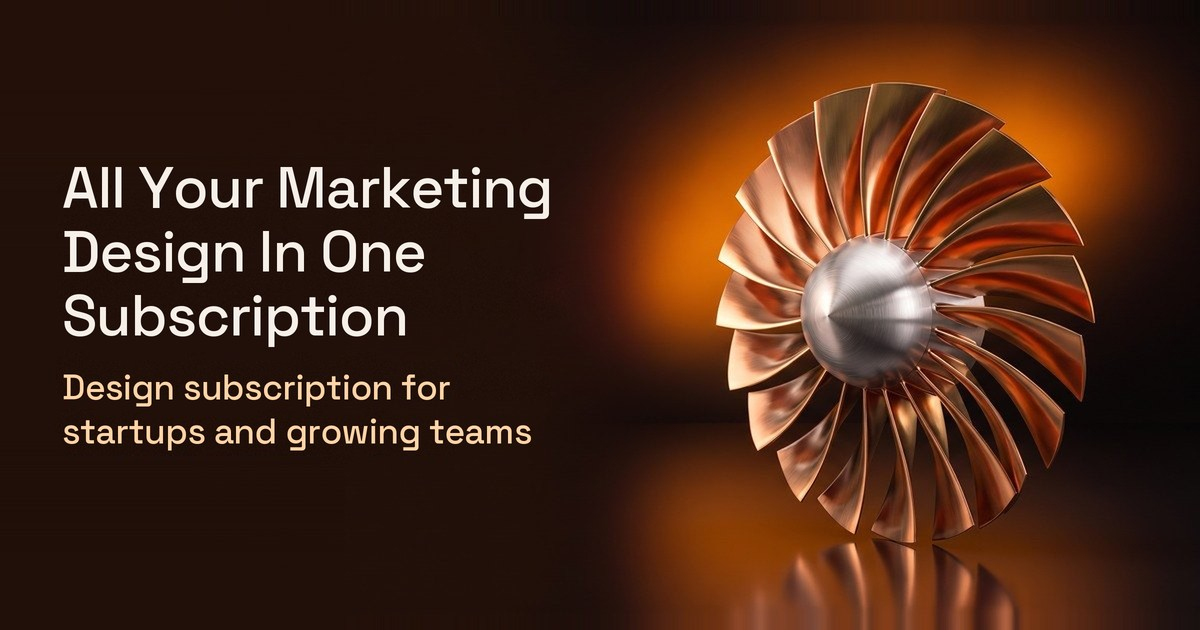
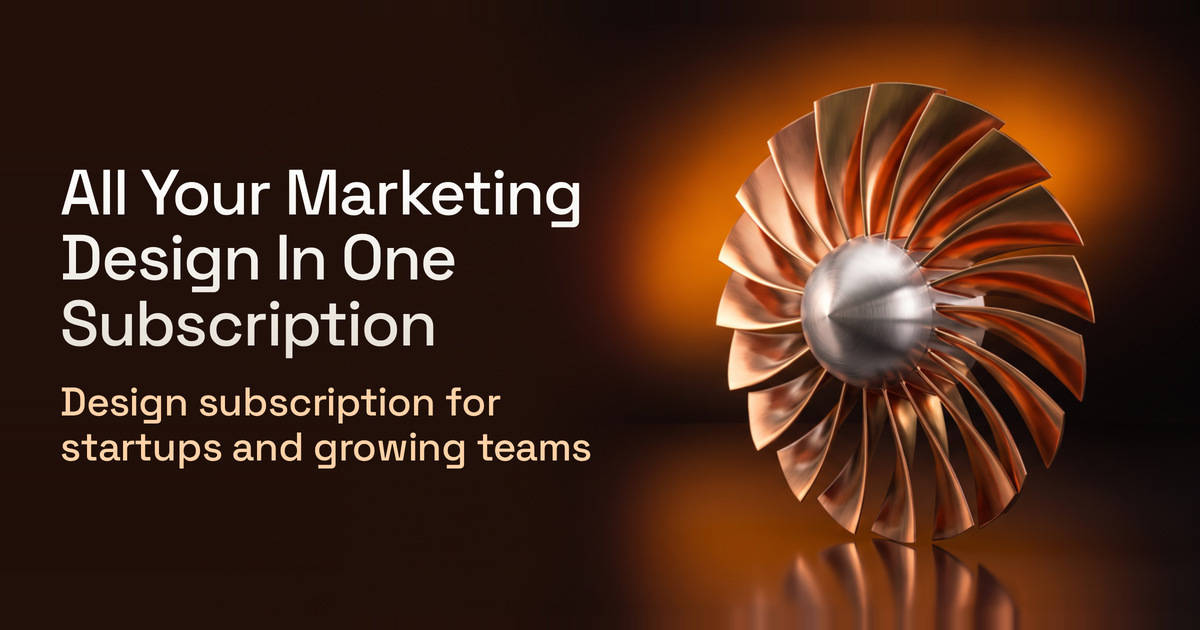
Share image: clean re-render from the original 2752px source, 2400x1260 og-v3.jpg (no grain, crisp text)

diff --git a/index.html b/index.html
@@ -11,15 +11,15 @@
 <meta property="og:description" content="All your marketing design in one subscription: landing pages, decks, ads and social, designed by a senior team. Every request delivered within 3 working days." />
 <meta property="og:type" content="website" />
 <meta property="og:url" content="https://torquestudio.es/" />
-<meta property="og:image" content="https://torquestudio.es/og-v2.jpg" />
-<meta property="og:image:width" content="1200" />
-<meta property="og:image:height" content="630" />
+<meta property="og:image" content="https://torquestudio.es/og-v3.jpg" />
+<meta property="og:image:width" content="2400" />
+<meta property="og:image:height" content="1260" />
 <meta property="og:image:type" content="image/jpeg" />
 <meta property="og:image:alt" content="All Your Marketing Design In One Subscription" />
 <meta name="twitter:card" content="summary_large_image" />
 <meta name="twitter:title" content="Torque Studio – Marketing design subscription for startups and growing teams" />
 <meta name="twitter:description" content="All your marketing design in one subscription: landing pages, decks, ads and social, designed by a senior team. Every request delivered within 3 working days." />
-<meta name="twitter:image" content="https://torquestudio.es/og-v2.jpg" />
+<meta name="twitter:image" content="https://torquestudio.es/og-v3.jpg" />
 <meta name="author" content="Torque Studio" />
 <meta name="robots" content="index, follow, max-image-preview:large, max-snippet:-1, max-video-preview:-1" />
 <link rel="canonical" href="https://torquestudio.es/" />
